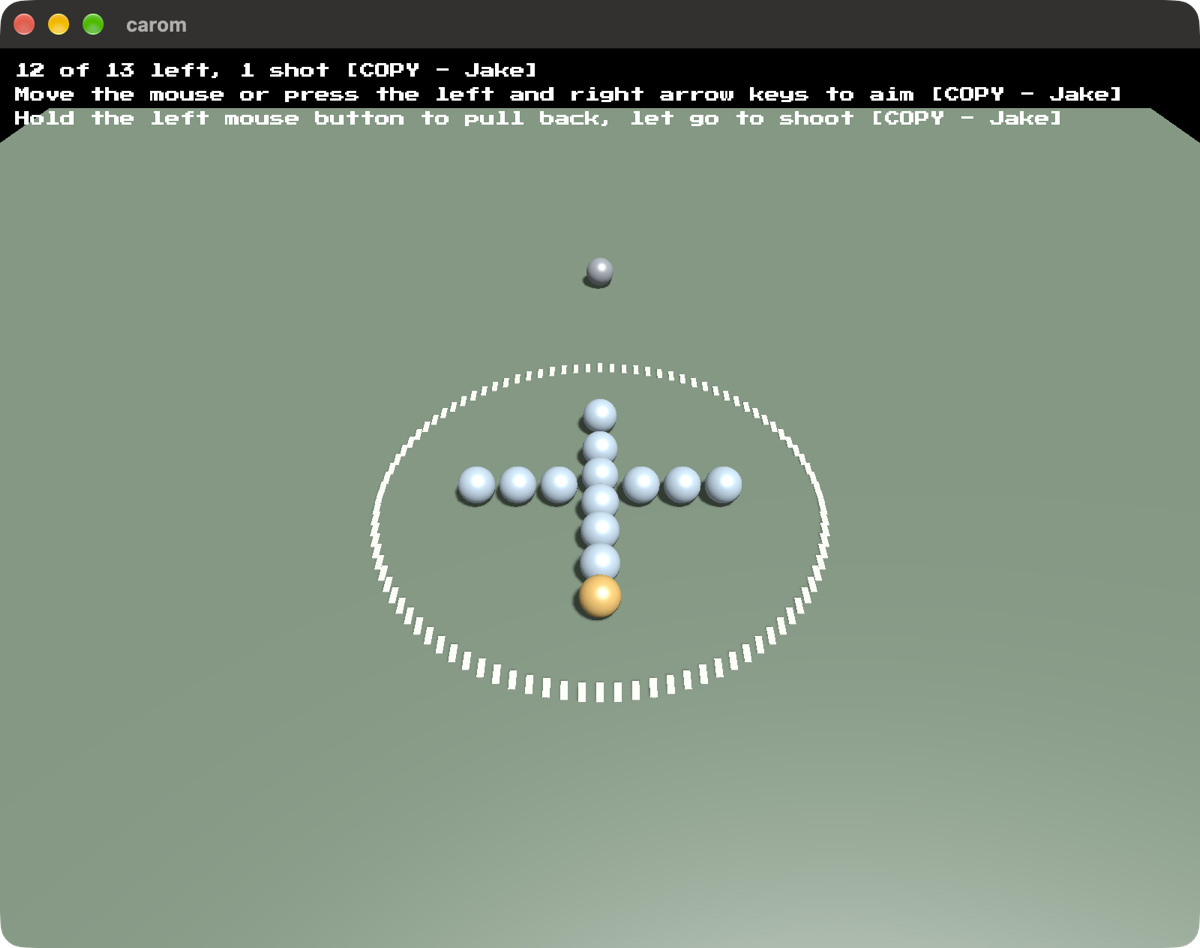
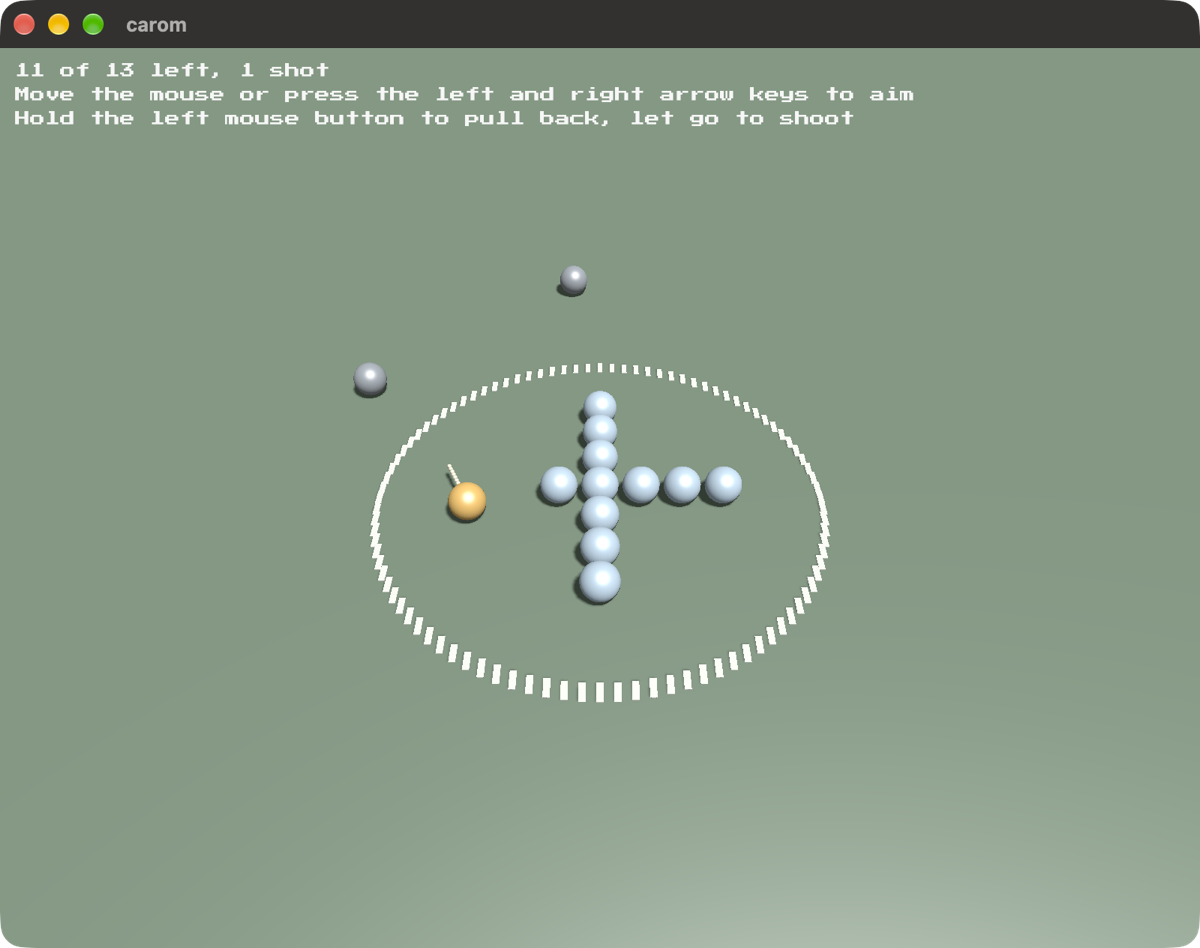
Take a shot for the camera
Takes --screenshot, which shoots and lets it settle on the first frame, so the picture is of a game rather than of a rack nobody has touched.

The shot was measured over power and angle rather than picked. At seven tenths and a fifth of a radian the rack barely moved and all thirteen stayed in. Full power at 0.45 scatters and puts two out of the ring.

diff --git a/src/carom_game.rs b/src/carom_game.rs
@@ -88,6 +88,15 @@ pub struct CaromGame {
     tile: Option<MeshId>,
     width: f32,
     quitting: bool,
+    /// Whether this run is only here to be photographed, and whether the shot
+    /// has been taken. See `refresh-screenshots` in the project above.
+    ///
+    /// The opening frame is thirteen marbles racked in a cross and nothing
+    /// having happened, which is a photograph of a setup. A staged run takes a
+    /// shot and lets it settle, which is the game: a scattered ring with a
+    /// marble out of it.
+    staged: bool,
+    shot_taken: bool,
 }
 
 impl Default for CaromGame {
@@ -113,6 +122,39 @@ impl CaromGame {
             tile: None,
             width: 800.0,
             quitting: false,
+            staged: crate::staged(),
+            shot_taken: false,
+        }
+    }
+
+    /// How hard the staged shot is and how far off the middle it points.
+    ///
+    /// Dead on into the near arm does not scatter: the impulse runs down the
+    /// column like a Newton's cradle, the far marble leaves and the ones
+    /// between barely move. An angled shot is what scatters, which is spec
+    /// 0001's own hand check and the picture worth taking.
+    /// Measured over power and angle rather than picked: at seven tenths and
+    /// a fifth of a radian the rack barely moved and all thirteen stayed in.
+    /// Full power at 0.45 is the one that scatters and puts two out.
+    const POSED_POWER: f32 = HARDEST;
+    const POSED_OFF: f32 = 0.45;
+    const POSED_SETTLES_FOR: f32 = 8.0;
+
+    /// Takes a shot for the camera and lets it come to rest. See
+    /// `refresh-screenshots`.
+    ///
+    /// On the first frame rather than over six real seconds, because the
+    /// shutter is on a timer and will not wait for the marbles to stop.
+    fn pose(&mut self) {
+        self.shot_taken = true;
+        self.aim += Self::POSED_OFF;
+        self.run.shoot(self.way(), Self::POSED_POWER);
+
+        let step = 1.0 / 120.0;
+        let mut at = 0.0;
+        while at < Self::POSED_SETTLES_FOR {
+            self.run.step(step);
+            at += step;
         }
     }
 
@@ -177,6 +219,22 @@ impl Game for CaromGame {
         // the text buffer is larger than the device will allocate. carom ran
         // for a couple of minutes and wgpu killed it at 2.7 gigabytes.
         text_renderer.reset();
+
+        if self.staged {
+            if !self.shot_taken {
+                self.pose();
+            }
+            for (n, text) in self.readout().into_iter().enumerate() {
+                text_renderer.push_render_text(RenderText {
+                    position: self.line(n),
+                    color: vec4(1.0, 1.0, 1.0, 0.9),
+                    size: HUD_SIZE,
+                    text,
+                    ..Default::default()
+                });
+            }
+            return;
+        }
 
         let turn = (self.turning[1] as i32 - self.turning[0] as i32) as f32;
         self.aim += turn * TURN_PER_SECOND * dt;

diff --git a/src/main.rs b/src/main.rs
@@ -8,6 +8,12 @@ mod shot;
 use blitzkit::start;
 use carom_game::CaromGame;
 
+/// Whether this run is only here to be photographed, for `refresh-screenshots`
+/// in the project above.
+pub fn staged() -> bool {
+    std::env::args().any(|arg| arg == "--screenshot")
+}
+
 fn main() {
     start("carom", Box::new(CaromGame::new()));
 }

diff --git a/README.md b/README.md
@@ -2,6 +2,8 @@
 
 Shoot at thirteen marbles with _your_ marble. It's basically shooting marbles. Just on a computer.
 
+![A ring drawn on a green table with thirteen pale marbles racked in a cross inside it, an amber shooter against the near arm, and one grey marble come to rest outside the ring](media/screenshot.png)
+
 Built on [blitzkit](https://github.com/jvalol/blitzkit), the ninth game on that
 engine. It's the first where one body with rotation, friction, momentum, etc. meets another.
 
